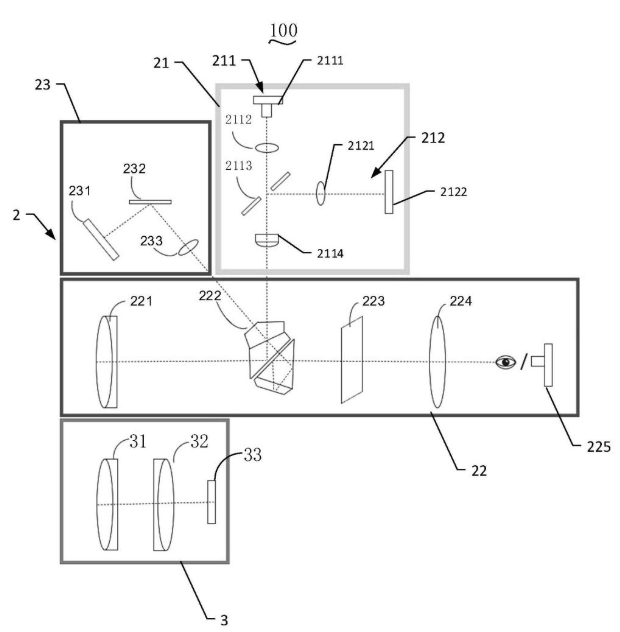
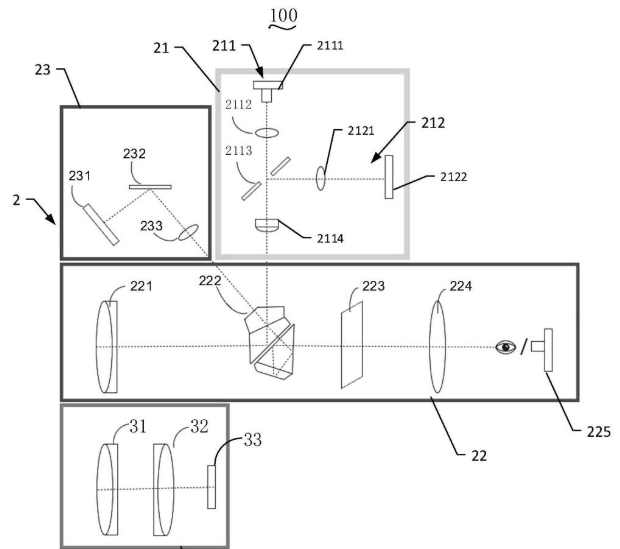
第七次：轻微调整

diff --git a/_pages/about.md b/_pages/about.md
@@ -22,15 +22,15 @@ redirect_from:
 <div style="display: flex; flex-wrap: wrap; gap: 1em; justify-content: center; margin: 1.8em 0;">
   <div style="flex: 1; min-width: 160px; text-align: center;">
     <img src="/images/SZU.jpg" style="width: 100%; border-radius: 10px; aspect-ratio: 4/3; object-fit: cover; box-shadow: 0 2px 6px rgba(0,0,0,0.1);">
-    <span style="display: block; font-size: 0.85em; color: #777; margin-top: 6px;">SZU</span>
+    <span style="display: block; font-size: 1.5em; color: #777; margin-top: 6px;">SZU</span>
   </div>
   <div style="flex: 1; min-width: 160px; text-align: center;">
     <img src="/images/SCNU.jpg" style="width: 100%; border-radius: 10px; aspect-ratio: 4/3; object-fit: cover; box-shadow: 0 2px 6px rgba(0,0,0,0.1);">
-    <span style="display: block; font-size: 0.85em; color: #777; margin-top: 6px;">SCNU</span>
+    <span style="display: block; font-size: 1.5em; color: #777; margin-top: 6px;">SCNU</span>
   </div>
   <div style="flex: 1; min-width: 160px; text-align: center;">
     <img src="/images/GBU.jpg" style="width: 100%; border-radius: 10px; aspect-ratio: 4/3; object-fit: cover; box-shadow: 0 2px 6px rgba(0,0,0,0.1);">
-    <span style="display: block; font-size: 0.85em; color: #777; margin-top: 6px;">GBU</span>
+    <span style="display: block; font-size: 1.5em; color: #777; margin-top: 6px;">GBU</span>
   </div>
 </div>
 
@@ -39,7 +39,7 @@ redirect_from:
   <div style="flex: 1; min-width: 160px; text-align: center; padding: 1.4em 1em; background: #f8f9fa; border-radius: 10px; box-shadow: 0 1px 3px rgba(0,0,0,0.06);">
     <i class="fas fa-map-marker-alt" style="font-size: 1.8em; color: #00369f; margin-bottom: 0.3em; display: block;"></i>
     <strong>Location</strong>
-    <p style="margin: 0.3em 0 0 0; font-size: 0.9em; color: #555;">Shenzhen / Foshan / Guangzhou , China</p>
+    <p style="margin: 0.3em 0 0 0; font-size: 0.9em; color: #555;">Shenzhen / Foshan / Dongguan , China</p>
   </div>
   <div style="flex: 1; min-width: 160px; text-align: center; padding: 1.4em 1em; background: #f8f9fa; border-radius: 10px; box-shadow: 0 1px 3px rgba(0,0,0,0.06);">
     <i class="fas fa-microscope" style="font-size: 1.8em; color: #00369f; margin-bottom: 0.3em; display: block;"></i>
@@ -66,7 +66,7 @@ Since August 2025, I have been a visiting student at Great Bay University, under
 
 # 📝 First-Author Publications & Patents
 
-<div class='paper-box'><div class='paper-box-image'><div><div class="badge">2026</div><img src='images/depth_estimation.png' alt="Depth Estimation" width="100%"></div></div>
+<div class='paper-box'><div class='paper-box-image'><div><div class="badge">Preprint</div><img src='images/depth_estimation.png' alt="Depth Estimation" width="100%"></div></div>
 <div class='paper-box-text' markdown="1">
 
 [Physics-Informed Deep Optics: Chromatic Aberrations for Monocular Depth Estimation](#)
@@ -79,7 +79,7 @@ Since August 2025, I have been a visiting student at Great Bay University, under
 </div>
 </div>
 
-<div class='paper-box'><div class='paper-box-image'><div><div class="badge">Optics Comms</div><img src='images/Optics_Communications2025.jpg' alt="Metasurfaces" width="90%"></div></div>
+<div class='paper-box'><div class='paper-box-image'><div><div class="badge">Optics Comms</div><img src='images/Optics_Communications2025.jpg' alt="Metasurfaces" width="100%"></div></div>
 <div class='paper-box-text' markdown="1">
 
 [Asymmetric double-layer compact metasurfaces based on phase-progressive diffractive networks](#)
@@ -92,7 +92,7 @@ Since August 2025, I have been a visiting student at Great Bay University, under
 </div>
 
 
-<div class='paper-box'><div class='paper-box-image'><div><div class="badge">Patent</div><img src='images/patent.png' alt="Patent" width="80%"></div></div>
+<div class='paper-box'><div class='paper-box-image'><div><div class="badge">Patent</div><img src='images/patent.png' alt="Patent" width="100%"></div></div>
 <div class='paper-box-text' markdown="1">
 
 [A monocular laser rangefinder telescope, measurement method and rangefinder (CN118642263A)](#)
@@ -106,7 +106,7 @@ Since August 2025, I have been a visiting student at Great Bay University, under
 
 <span class='anchor' id='other-publications'></span>
 
-# 📚 Other Publications & Patents
+# 📚 Other Publications
 - Huang, Z., Wang, W., **Yang, Y.**, Zhang, H., Wang, Y., Zhao, T., ... & Su, S. (2024). Controllable and reversible photoresponses in graphene-gated WSe2 field-effect transistors for communication, logic gate operations and image pre-processing. Nano Res., 18(6), 94907460.
 - Shen, M., Guo, S., Wang, Z., **Yang, Y.**, Li, C., Ding, M., & Wang, B. (2026). A Physics-Informed Residual Learning Method for Real-Time 5-DoF Magnetic Localization in Capsule Endoscopy. IEEE Transactions on Industrial Informatics.
 - Jiao, S., Liu, H., Zhang, S., Zhou, C., Liu, Y., Chen, W., ... & Pengh, Y. (2026). Single-pixel imaging: principles, methods, algorithms, and applications. Advanced Imaging, 2, 1.
